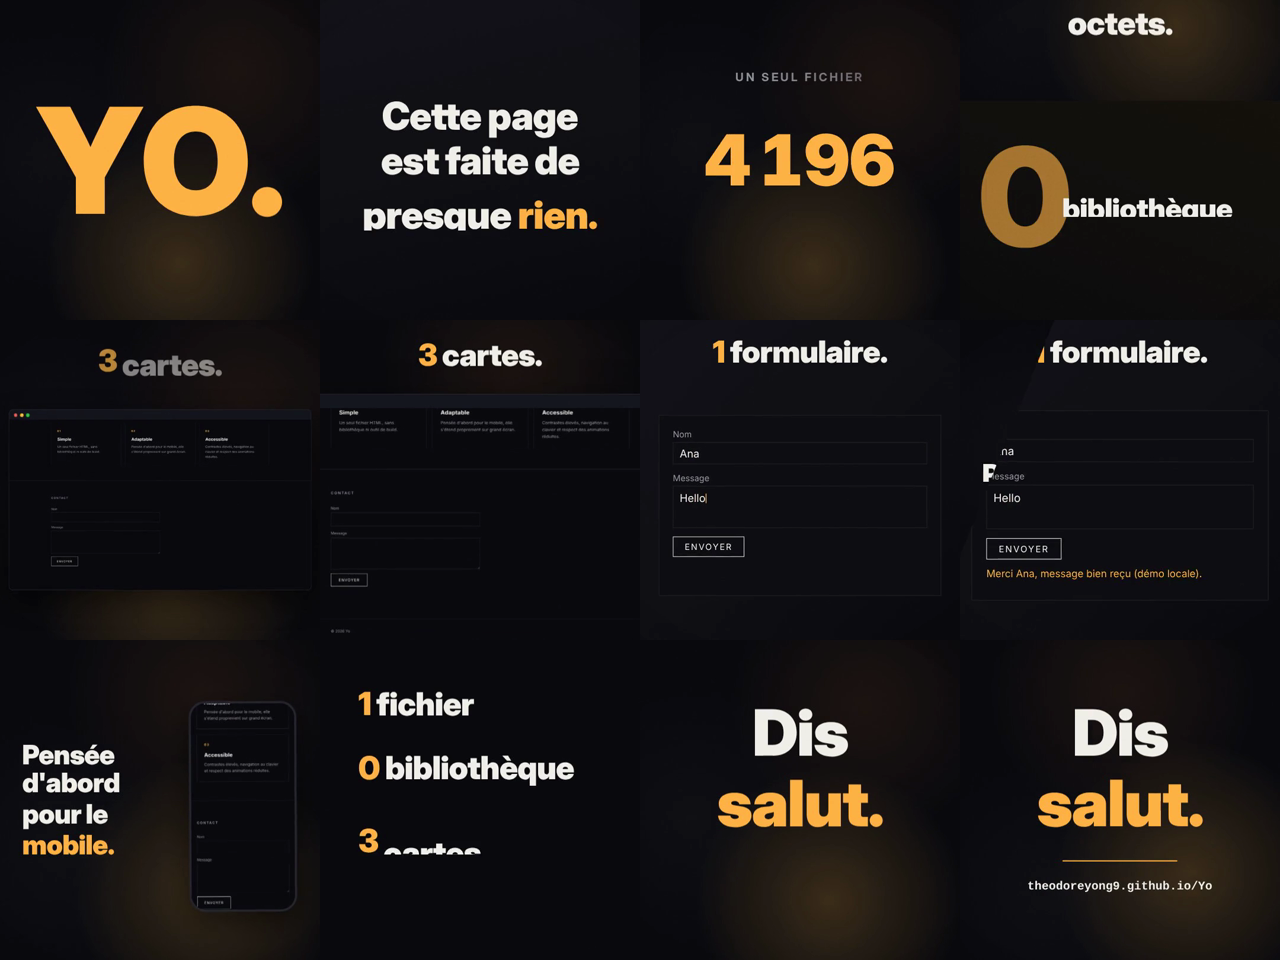
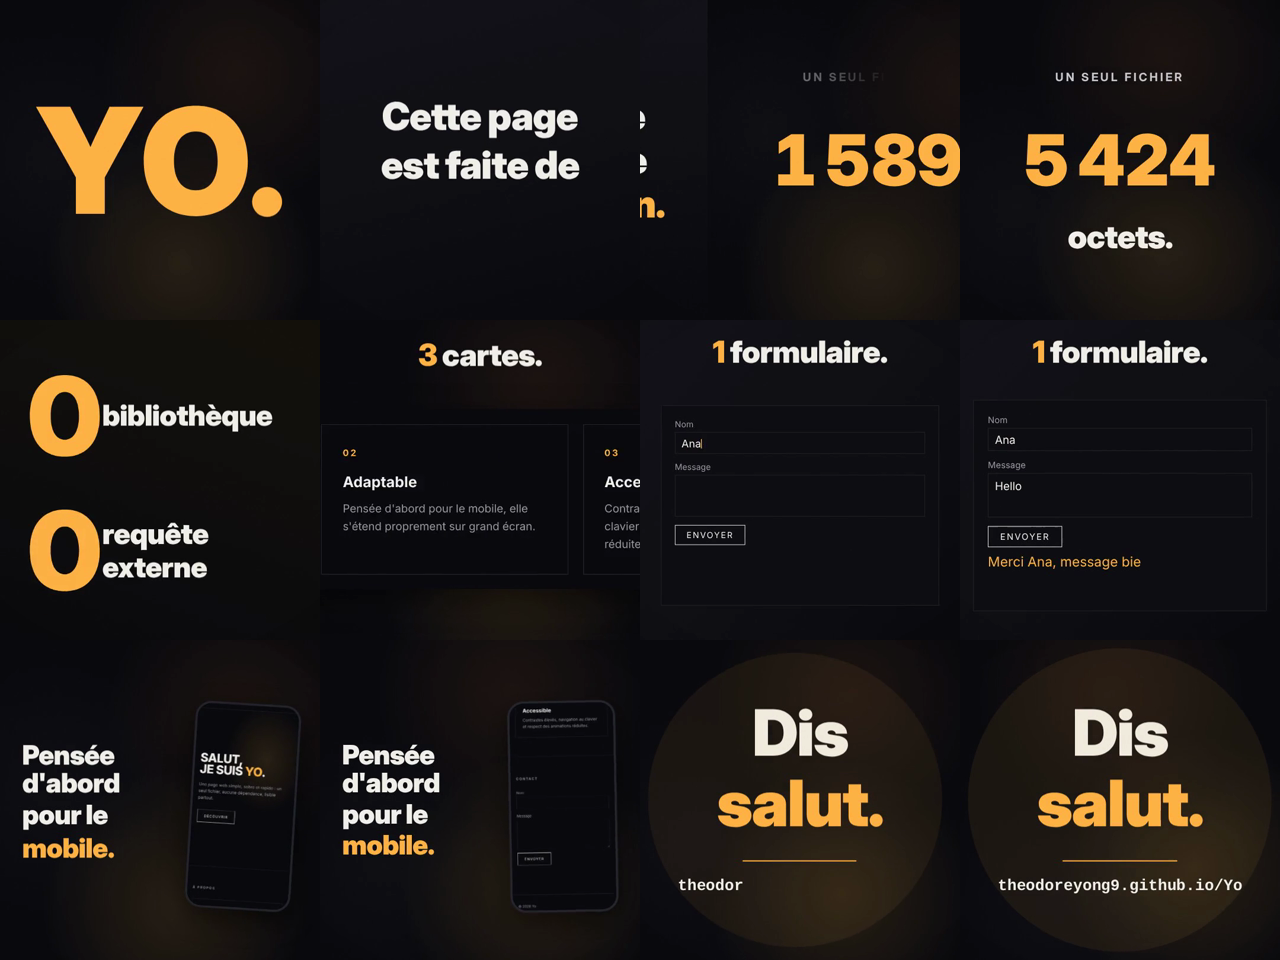
Film carré : corrections après critique (tour 1)
Claude-Session: https://claude.ai/code/session_012ukdeGAizEVw6Rsgx73n3j

diff --git a/aiwa-videos/square/video.html b/aiwa-videos/square/video.html
@@ -7,14 +7,14 @@
 <script>
 const A = '#ffb347', MONO = '"Liberation Mono", monospace';
 window.THEME = { bg: '#0b0b0f', ink: '#f2f0ea', muted: '#9a9aa3', accent: A, font: '"Inter Display", Inter, "Liberation Sans", Arial, sans-serif', grain: 0.02, vignette: 0.25 };
-const BLOBS = ['rgba(255,179,71,.20)', 'rgba(255,140,60,.08)', 'rgba(20,20,26,.5)'];
+const BLOBS = ['rgba(255,179,71,.13)', 'rgba(255,140,60,.08)', 'rgba(20,20,26,.5)'];
 const nightBlobs = { type: 'blobs', colors: BLOBS, base: '#0b0b0f' };
-const FORM_CSS = `.f{font-family:"Inter",sans-serif;color:#f2f0ea;width:1000px;height:640px;box-sizing:border-box;padding:48px;border:2px solid #24242c;background:#0e0e13}
+const FORM_CSS = `.f{font-family:"Inter",sans-serif;color:#f2f0ea;width:1000px;height:720px;box-sizing:border-box;padding:48px;border:2px solid #24242c;background:#0e0e13}
 .f label{display:block;font-size:30px;color:#9a9aa3;margin-bottom:10px}
 .f .i{border:2px solid #24242c;height:78px;font-size:38px;padding:0 22px;line-height:78px;margin-bottom:30px;box-sizing:border-box}
 .f .t{height:150px;line-height:1.3;padding-top:18px;border:2px solid #24242c;font-size:38px;padding-left:22px;box-sizing:border-box;margin-bottom:30px}
 .f .b{display:inline-block;border:2px solid #f2f0ea;padding:16px 40px;font-size:30px;letter-spacing:.14em;text-transform:uppercase}
-.f .m{margin-top:26px;font-size:34px;color:#ffb347;min-height:44px}
+.f .m{margin-top:22px;font-size:46px;line-height:1.2;color:#ffb347;min-height:112px}
 .f .c{display:inline-block;width:3px;height:.9em;background:#ffb347;vertical-align:-.1em}`;
 const typed = (s, t, a, b) => s.slice(0, Math.round(s.length * Math.min(1, Math.max(0, (t - a) / (b - a)))));
 window.SHOTS = [
@@ -29,9 +29,9 @@ window.SHOTS = [
   ] },
   // 3 · LE POIDS
   { seconds: 2.5, transition: { type: 'push', seconds: 0.4 }, bg: nightBlobs, layers: [
-    { type: 'text', text: 'UN SEUL FICHIER', size: [3.6, 3.6], weight: 700, spacing: 0.2, color: '#9a9aa3', x: 50, y: 24, at: 0.1, mode: 'chars', stagger: 0.02, effect: 'fade' },
-    { type: 'counter', from: 0, to: 5424, at: 0.25, dur: 1.4, sep: '\u202f', size: [22, 22], weight: 900, color: A, x: 50, y: 50 },
-    { type: 'text', text: 'octets.', size: [10, 10], weight: 900, x: 50, y: 76, at: 1.5, effect: 'drop', mode: 'words' },
+    { type: 'text', text: 'UN SEUL FICHIER', size: [3.6, 3.6], weight: 700, spacing: 0.2, color: '#c9c9d0', x: 50, y: 24, at: 0.1, mode: 'chars', stagger: 0.02, effect: 'fade' },
+    { type: 'counter', from: 0, to: 5424, at: 0.2, dur: 1.0, sep: '\u202f', size: [22, 22], weight: 900, color: A, x: 50, y: 50 },
+    { type: 'text', text: 'octets.', size: [10, 10], weight: 900, x: 50, y: 74, at: 0.3, effect: 'rise', mode: 'words' },
   ] },
   // 4 · ZÉRO, ZÉRO
   { seconds: 2, transition: { type: 'push-up', seconds: 0.35 }, bg: { type: 'gradient', colors: ['#16130e', '#0b0b0f'], angle: 200 }, layers: [
@@ -41,15 +41,15 @@ window.SHOTS = [
     { type: 'text', text: 'requête\nexterne', size: [9, 9], weight: 900, align: 'left', x: 63, y: 72, w: 62, at: 0.85, effect: 'mask', mode: 'lines', stagger: 0.12 },
   ] },
   // 5 · LA VRAIE PAGE, LES 3 CARTES
-  { seconds: 3, transition: { type: 'wipe', seconds: 0.4 }, bg: nightBlobs, layers: [
+  { seconds: 2.6, transition: { type: 'wipe', seconds: 0.4 }, bg: nightBlobs, layers: [
     { type: 'text', text: '3 cartes.', size: [9.5, 9.5], weight: 900, x: 50, y: 11, at: 0.15, mode: 'words', effect: 'rise', accent: { '3': A } },
-    { type: 'page', src: 'page-full.png', pageW: 1440, viewH: 810, scroll: [800, 880], scrollAt: 0.2, scrollDur: 2.4, frame: 'browser', x: 50, y: 56, w: 94, at: 0.1, dur: 0.5, enter: 'rise',
-      cam: { from: { s: 1, x: 0, y: 0 }, to: { s: 1.45, x: 0, y: 7 }, at: 0.2, dur: 2.7 } },
+    { type: 'image', src: 'cards-crop.png', x: 50, y: 56, w: 250, enter: 'fade', at: 0.1, dur: 0.4, radius: 12,
+      cam: { from: { s: 1, x: 81 }, to: { s: 1, x: -81 }, at: 0.15, dur: 2.3 } },
   ] },
   // 6 · LE FORMULAIRE RÉPOND
-  { seconds: 3.5, transition: { type: 'iris', seconds: 0.45 }, bg: { type: 'gradient', colors: ['#14141a', '#0b0b0f'], angle: 120, drift: true }, layers: [
+  { seconds: 4, transition: { type: 'iris', seconds: 0.45 }, bg: { type: 'gradient', colors: ['#14141a', '#0b0b0f'], angle: 120, drift: true }, layers: [
     { type: 'text', text: '1 formulaire.', size: [9.5, 9.5], weight: 900, x: 50, y: 10, at: 0.1, mode: 'words', effect: 'mask', accent: { '1': A } },
-    { type: 'html', id: 'form', css: FORM_CSS, design: [1000, 640], w: 86, x: 50, y: 58, at: 0.15, dur: 0.6, enter: 'scale',
+    { type: 'html', id: 'form', css: FORM_CSS, design: [1000, 720], w: 86, x: 50, y: 58, at: 0.15, dur: 0.6, enter: 'scale',
       cam: { from: { s: 1 }, to: { s: 1.08 }, at: 0.2, dur: 3.2 },
       markup: '<div class="f"><label>Nom</label><div class="i" id="fn"></div><label>Message</label><div class="t" id="fm"></div><span class="b" id="fb">Envoyer</span><div class="m" id="fr"></div></div>',
       tick: (r, t, M) => {
@@ -58,27 +58,21 @@ window.SHOTS = [
         r.querySelector('#fm').innerHTML = m + (t >= 1.0 && t < 1.8 ? '<span class="c"></span>' : '');
         const press = t > 1.9 && t < 2.15, b = r.querySelector('#fb');
         b.style.background = press ? '#f2f0ea' : 'transparent'; b.style.color = press ? '#0b0b0f' : '#f2f0ea';
-        r.querySelector('#fr').textContent = typed('Merci Ana, message bien reçu (démo locale).', t, 2.2, 3.0);
+        r.querySelector('#fr').textContent = typed('Merci Ana, message bien reçu (démo locale).', t, 2.2, 2.9);
       } },
   ] },
   // 7 · MOBILE
-  { seconds: 3, transition: { type: 'slice', seconds: 0.4 }, bg: nightBlobs, layers: [
+  { seconds: 2.6, transition: { type: 'slice', seconds: 0.4 }, bg: nightBlobs, layers: [
     { type: 'text', text: "Pensée d'abord\npour le\nmobile.", size: [8.4, 8.4], weight: 900, align: 'left', x: 33, y: 50, w: 52, mode: 'lines', effect: 'mask', stagger: 0.16, at: 0.1, accent: { 'mobile.': A } },
-    { type: 'page', src: 'page-mobile.png', pageW: 390, viewH: 780, scroll: [0, 1250], scrollAt: 0.2, scrollDur: 2.6, frame: 'phone', x: 76, y: 52, w: 33, at: 0.1, dur: 0.6, enter: 'right',
+    { type: 'page', src: 'page-mobile.png', pageW: 390, viewH: 780, scroll: [0, 1250], scrollAt: 0.2, scrollDur: 2.3, frame: 'phone', x: 76, y: 52, w: 33, at: 0.1, dur: 0.6, enter: 'right',
       cam: { from: { s: 1, r: 4 }, to: { s: 1.03, r: -2 }, at: 0.1, dur: 2.9 } },
-  ] },
-  // 8 · BILAN
-  { seconds: 2, transition: { type: 'push', seconds: 0.3 }, bg: { type: 'solid', color: '#0b0b0f' }, layers: [
-    { type: 'text', text: '1 fichier', size: [10, 10], weight: 900, align: 'left', x: 50, y: 20, w: 76, at: 0.0, mode: 'words', effect: 'mask', accent: { '1': A } },
-    { type: 'text', text: '0 bibliothèque', size: [10, 10], weight: 900, align: 'left', x: 50, y: 40, w: 76, at: 0.45, mode: 'words', effect: 'mask', accent: { '0': A } },
-    { type: 'text', text: '3 cartes', size: [10, 10], weight: 900, align: 'left', x: 50, y: 60, w: 76, at: 0.9, mode: 'words', effect: 'mask', accent: { '3': A } },
-    { type: 'text', text: '1 formulaire', size: [10, 10], weight: 900, align: 'left', x: 50, y: 80, w: 76, at: 1.35, mode: 'words', effect: 'mask', accent: { '1': A } },
   ] },
   // 9 · APPEL À L'ACTION
   { seconds: 4.2, transition: { type: 'fade', seconds: 0.35 }, bg: nightBlobs, layers: [
     { type: 'text', text: 'Dis\nsalut.', size: [20, 20], weight: 900, mode: 'lines', effect: 'mask', stagger: 0.18, at: 0.35, y: 40, accent: { 'salut.': A }, leading: 0.98 },
     { type: 'shape', kind: 'bar', x: 50, y: 69, w: 36, h: 0.5, color: A, at: 1.2, dur: 0.7, from: { s: 0 } },
-    { type: 'text', text: 'theodoreyong9.github.io/Yo', size: [3.7, 3.7], weight: 600, font: MONO, spacing: 0, x: 50, y: 77, at: 1.5, effect: 'type', mode: 'chars', stagger: 0.03 },
+    { type: 'shape', kind: 'circle', x: 50, y: 50, w: 95, h: 95, color: 'rgba(255,179,71,.07)', from: { s: 0.5, o: 0 }, at: 0.2, dur: 3.8 },
+    { type: 'text', text: 'theodoreyong9.github.io/Yo', size: [4.9, 4.9], weight: 600, font: MONO, spacing: 0, x: 50, y: 77, at: 1.5, effect: 'type', mode: 'chars', stagger: 0.03 },
   ] },
 ];
 </script>

diff --git a/aiwa-videos/square/style.md b/aiwa-videos/square/style.md
@@ -1,6 +1,6 @@
 # Feuille de style (tout le film)
 - **Palette** : fond nuit `#0b0b0f` (60 %), ivoire `#f2f0ea` (30 %, texte), ambre `#ffb347` (10 %, accent unique : un mot ou un chiffre par plan).
-- **Type** : Inter Display Black pour les mots (majuscules, serrés −0,03 em, énormes) ; Liberation Mono pour les compteurs et l'adresse. Deux familles, deux graisses.
+- **Type** : Inter Display Black pour les mots (casse normale pour les titres, serrés −0,02 em, énormes ; majuscules espacées seulement pour les petites étiquettes ; titres centrés, sauf les plans « 0 » et « mobile » alignés à gauche à côté de leur illustration) ; Liberation Mono pour les compteurs et l'adresse. Deux familles, deux graisses.
 - **Mouvement** : même easing (ease-out expo), entrées 0,25–0,6 s, décalage 60–100 ms entre mots. Texte par masque ou par chute. Caméra : zoom/dérive lent sous 8 %. Transitions : push et iris, flash sur le coup de grosse caisse seulement.
 - **Son** : impulsion ~120 bpm, accent à chaque coupe, riser avant la révélation, **silence d'un temps avant « Dis salut. »** ; voix courte, uniquement sur les temps forts ; la musique baisse sous la voix (`--duck=light`).
 - **Grade** : grain léger 0,02 + vignette 0,25 ; pas de bloom fort (le noir ne doit pas virer au violet).

diff --git a/aiwa-videos/square/brief.md b/aiwa-videos/square/brief.md
@@ -4,7 +4,7 @@
 **UN message** : cette page tient en presque rien — et elle dit salut.
 **Ton** : sec, malin, un sourire. Jamais de superlatif.
 **Direction artistique** : prise dans la page — nuit #0b0b0f, ivoire #f2f0ea, ambre #ffb347 ; gros caractères noirs (Inter Display Black) ; compteurs en mono.
-**Format / durée** : 1:1, 1080×1080, 24 s, MP4 H.264 + AAC.
+**Format / durée** : 1:1, 1080×1080, 19,8 s, MP4 H.264 + AAC.
 **Appel à l'action** : « Dis salut. » + theodoreyong9.github.io/Yo.
 
 ## Stratégie (section 0 du guide)
